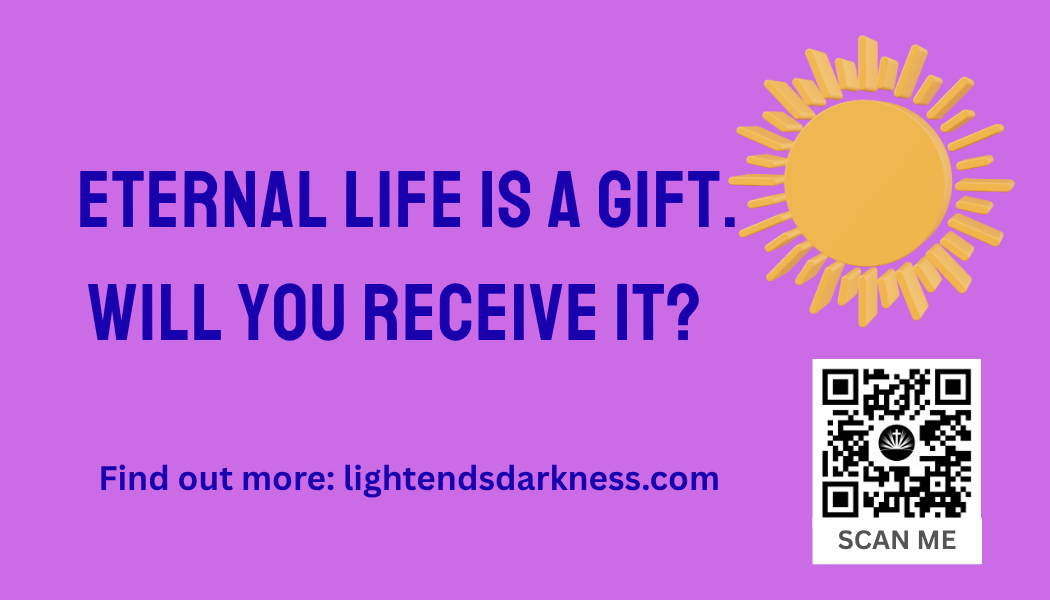
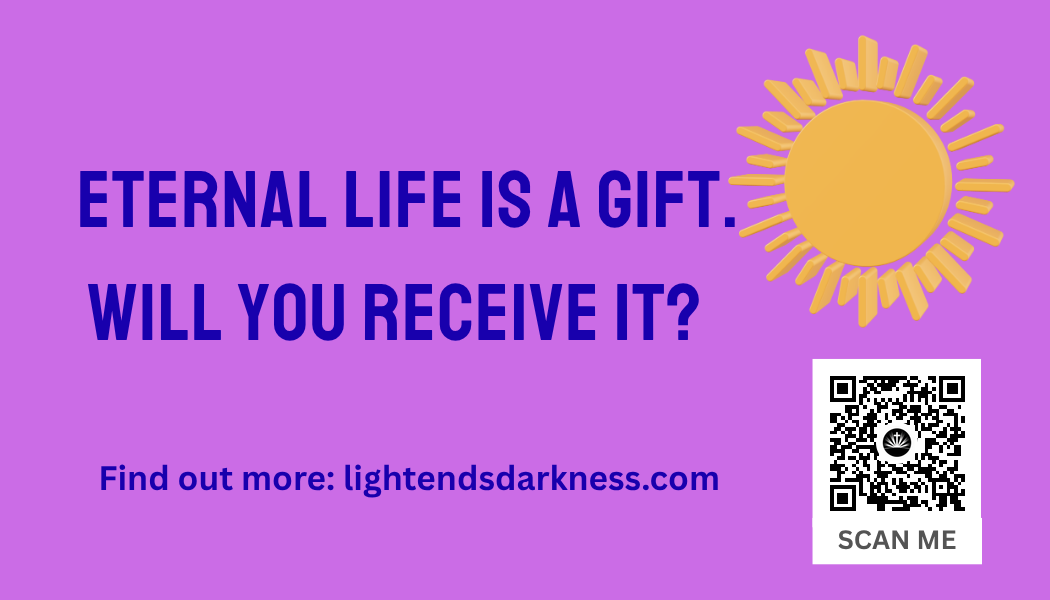
Update witness card QR codes and store link

Changed region(s): [[0.7619, 0.6, 0.9448, 0.87]]

diff --git a/src/data/siteContent.js b/src/data/siteContent.js
@@ -68,7 +68,7 @@ export const resourceCards = [
   },
 ]
 
-export const shopStoreUrl = 'https://lightovercomes.printify.me/'
+export const shopStoreUrl = 'https://light-overcomes.printify.me/'
 
 export const storeContent = {
   eyebrow: 'Store',
